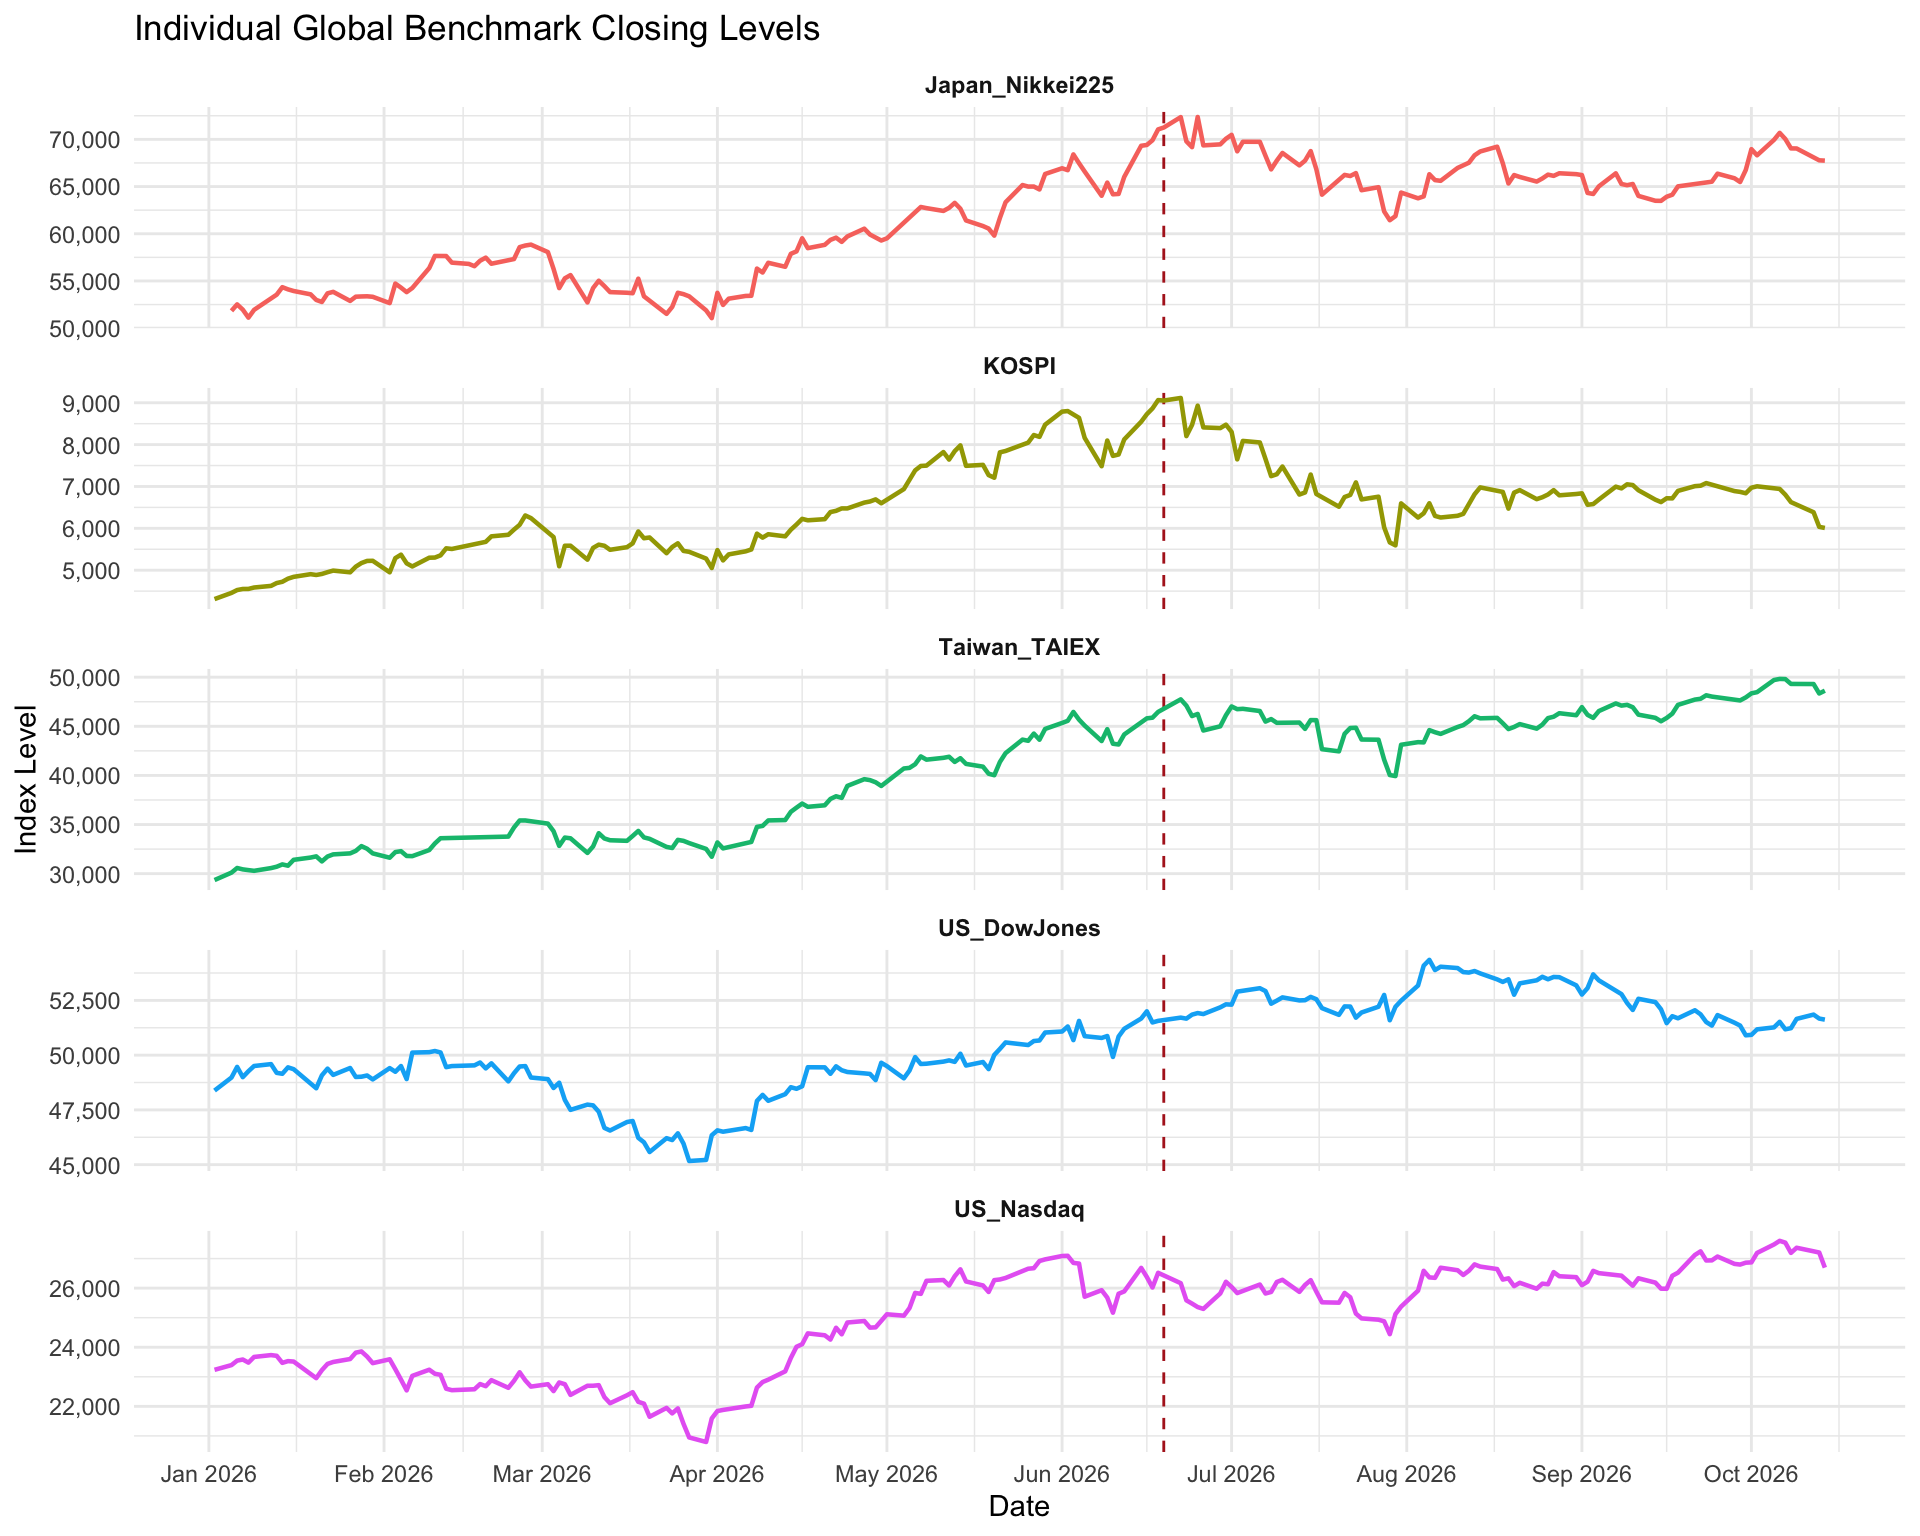
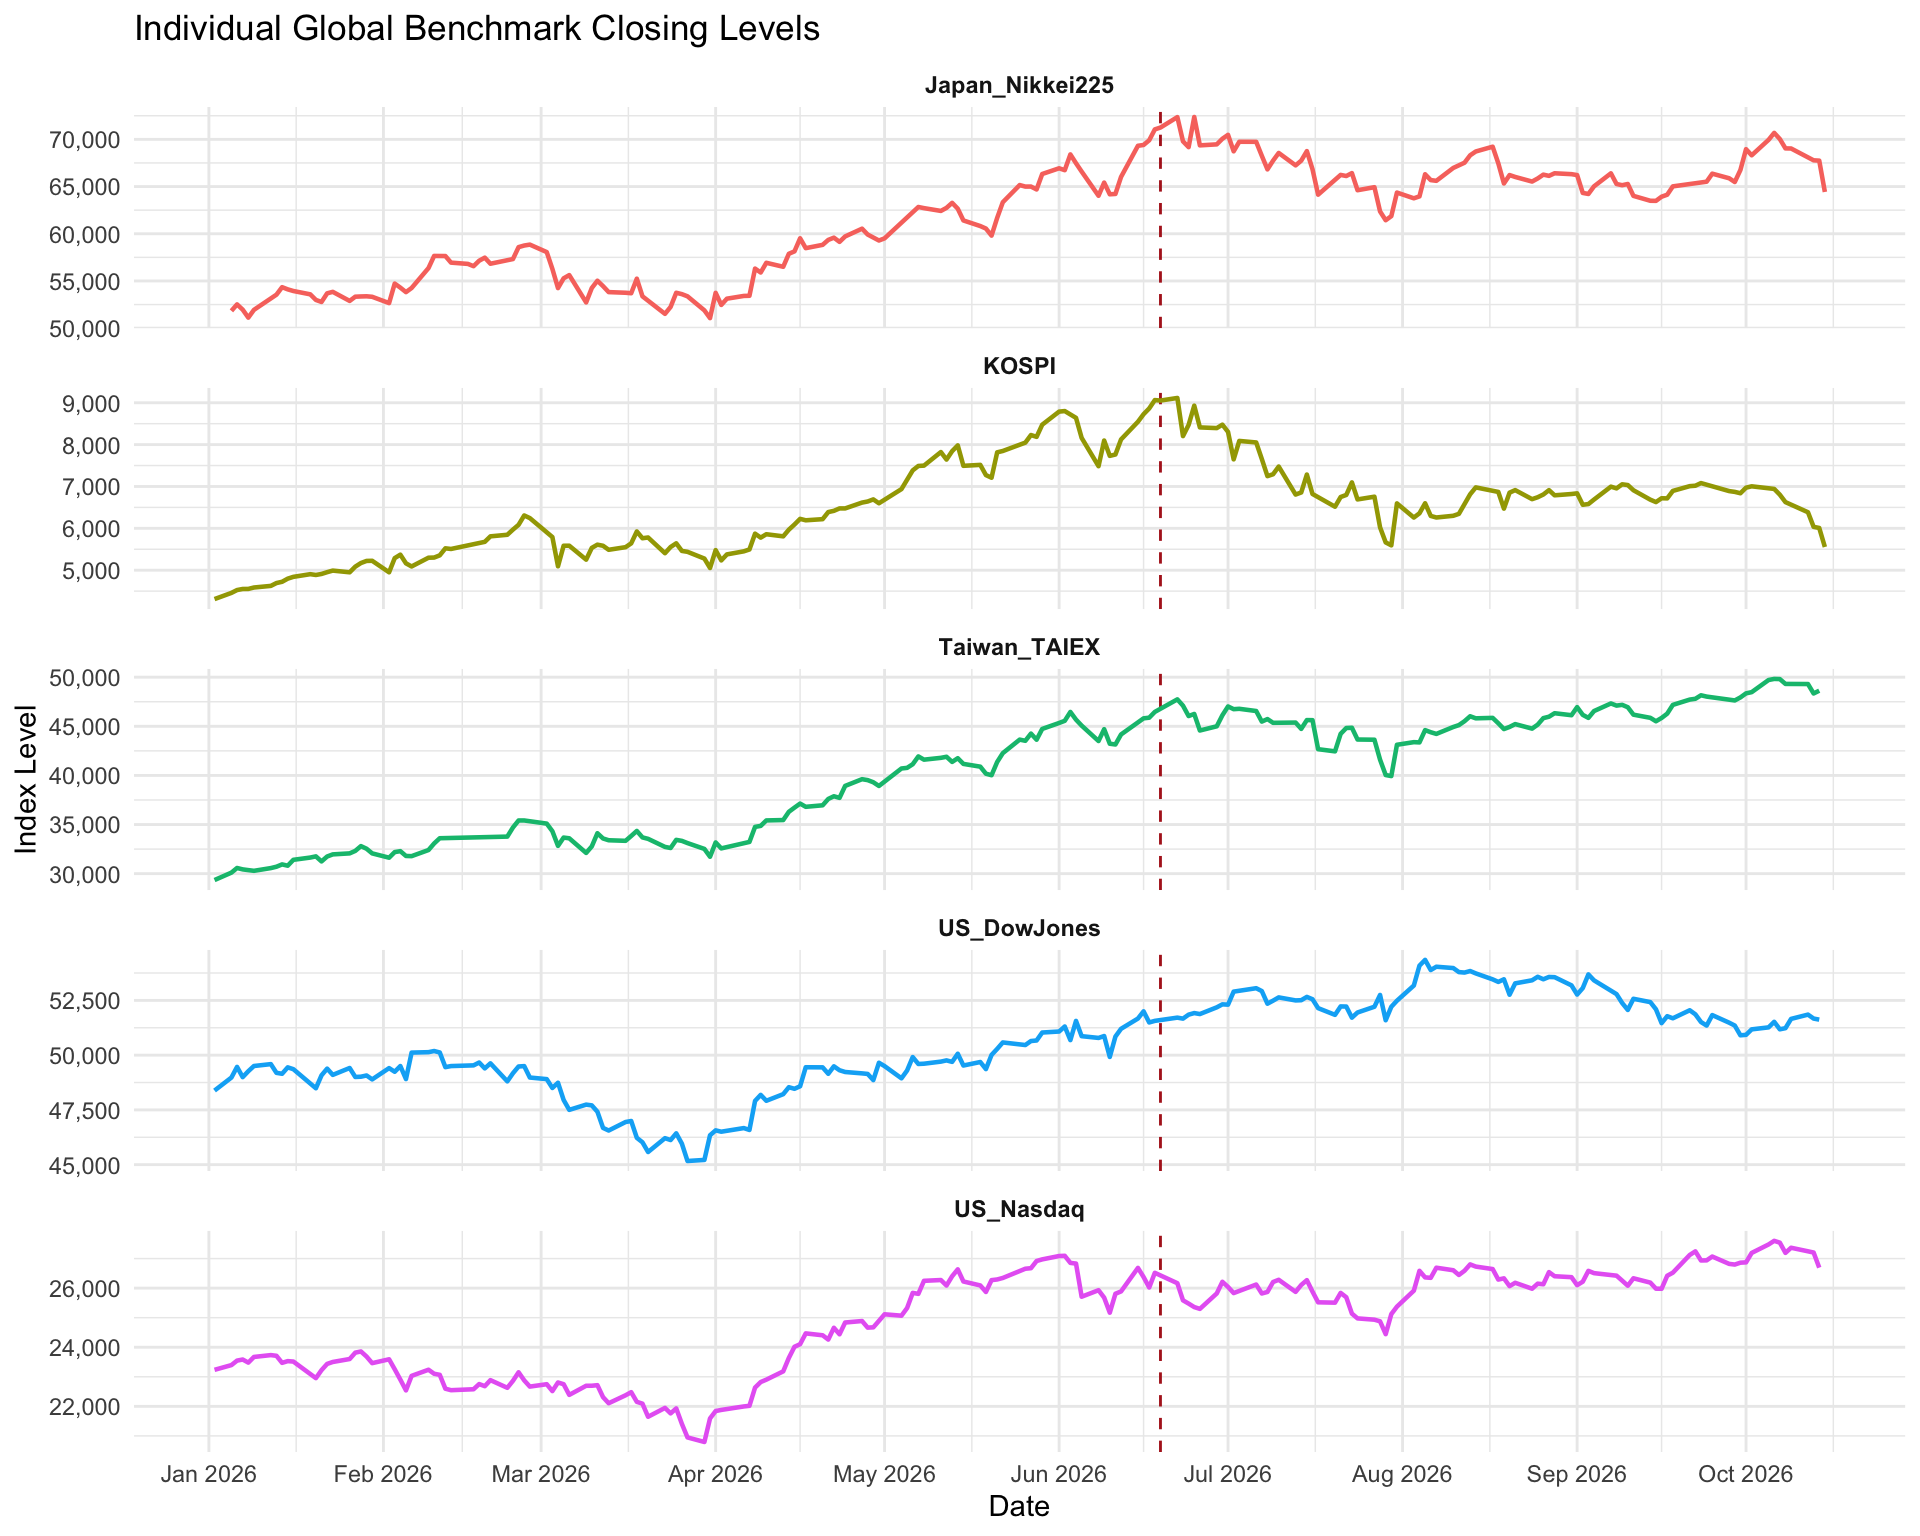
mango

diff --git a/docs/posts/20261016 Mangoes/index.html b/docs/posts/20261016 Mangoes/index.html
@@ -488,21 +488,21 @@ See help("Deprecated")</code></pre>
 <td style="text-align: left;">Global Market Index</td>
 <td style="text-align: left;">Japan_Nikkei225</td>
 <td style="text-align: right;">51832.80</td>
-<td style="text-align: right;">67744.29</td>
+<td style="text-align: right;">64425.95</td>
 <td style="text-align: right;">72366.34</td>
 <td style="text-align: right;">51063.72</td>
-<td style="text-align: left;">30.7%</td>
-<td style="text-align: right;">1.91</td>
+<td style="text-align: left;">24.3%</td>
+<td style="text-align: right;">1.94</td>
 </tr>
 <tr class="even">
 <td style="text-align: left;">Global Market Index</td>
 <td style="text-align: left;">KOSPI</td>
 <td style="text-align: right;">4309.63</td>
-<td style="text-align: right;">6008.81</td>
+<td style="text-align: right;">5554.22</td>
 <td style="text-align: right;">9114.55</td>
 <td style="text-align: right;">4309.63</td>
-<td style="text-align: left;">39.43%</td>
-<td style="text-align: right;">3.82</td>
+<td style="text-align: left;">28.88%</td>
+<td style="text-align: right;">3.86</td>
 </tr>
 <tr class="odd">
 <td style="text-align: left;">Global Market Index</td>
